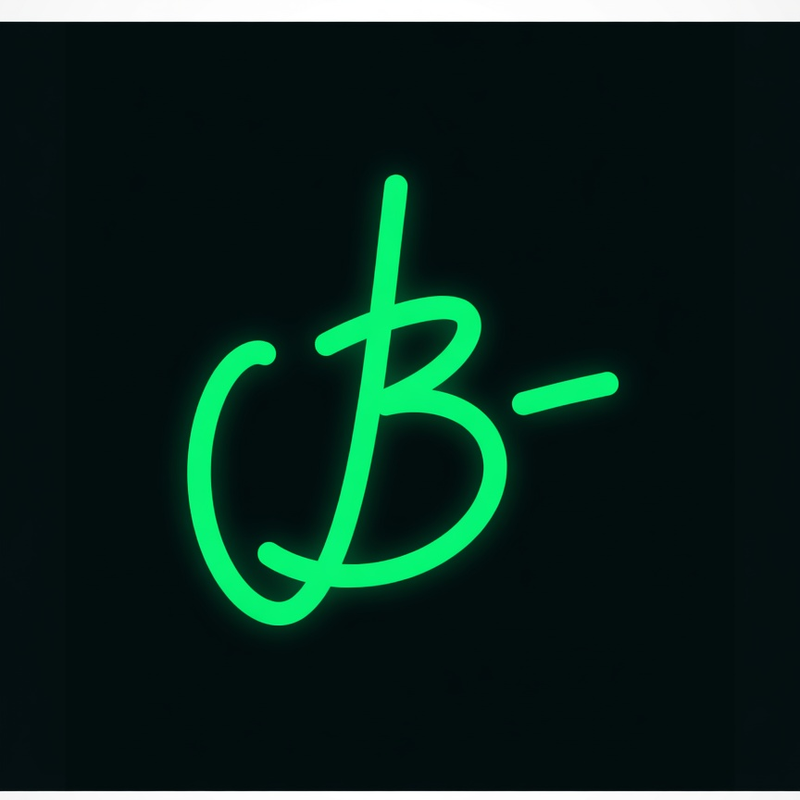
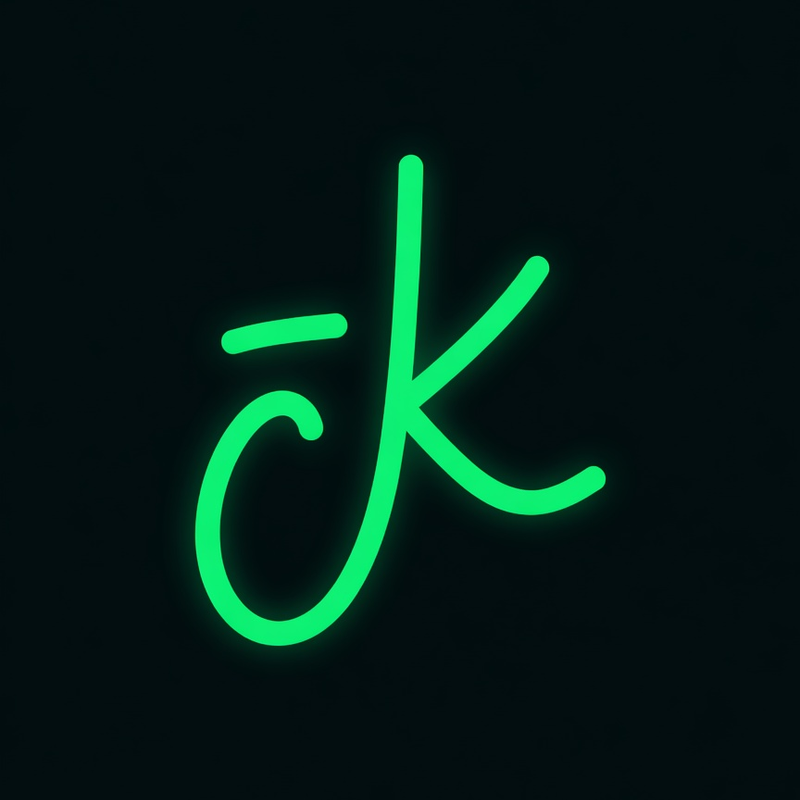
CK monogram sig, Andrea under 2×2, neon section margins
Replace signature with merged CK monogram. Work grid: 4 primary
tiles + Andrea below. Selected work & track record get side
margins and a phosphor neon ambient wash.

Changed region(s): [[0.2188, 0.1875, 0.7812, 0.8125], [0.0, 0.9688, 1.0, 1.0], [0.0, 0.0, 1.0, 0.0312]]

diff --git a/src/components/mc/WorkBento.tsx b/src/components/mc/WorkBento.tsx
@@ -15,7 +15,7 @@ export type WorkBentoItem = {
 const STOCKY_VERIFIED =
   "https://web.sensibull.com/verified-pnl/imported-hare/longterm-pnl";
 
-/** Four equal tiles: Drishti · Timelock · Stocky · Delta Support Audit. */
+/** Primary 2×2: Drishti · Timelock · Stocky · Delta Support Audit. Andrea sits below. */
 export function defaultWorkBentoItems(): WorkBentoItem[] {
   const bySlug = Object.fromEntries(CASE_STUDIES.map((c) => [c.slug, c]));
   const cover = (slug: string, fallback: string, alt: string) => {
@@ -61,6 +61,19 @@ export function defaultWorkBentoItems(): WorkBentoItem[] {
   ];
 }
 
+export function andreaWorkItem(): WorkBentoItem {
+  const bySlug = Object.fromEntries(CASE_STUDIES.map((c) => [c.slug, c]));
+  const shot = bySlug["andrea-world"]?.shots?.[0];
+  return {
+    title: "Andrea's World",
+    line: bySlug["andrea-world"]?.tagline ?? "Hand-built interactive 3D web world.",
+    cover: shot?.src ?? "/images/work/andrea-world/cover.png",
+    coverAlt: shot?.alt ?? "Andrea's World interactive island",
+    live: "https://andrea-world.vercel.app",
+    detail: "/work/andrea-world",
+  };
+}
+
 function Chip({ href, children, internal }: { href: string; children: React.ReactNode; internal?: boolean }) {
   const cls =
     "relative z-10 font-mono text-[12px] text-[rgb(var(--mute))] transition-colors hover:text-accent";
@@ -75,10 +88,20 @@ function Chip({ href, children, internal }: { href: string; children: React.Reac
   );
 }
 
-function Card({ item, priority }: { item: WorkBentoItem; priority?: boolean }) {
+function Card({
+  item,
+  priority,
+  className = "",
+}: {
+  item: WorkBentoItem;
+  priority?: boolean;
+  className?: string;
+}) {
   const detailHref = item.detail ?? "#";
   return (
-    <article className="group relative flex h-full flex-col overflow-hidden rounded-2xl border border-[rgb(var(--rule))] bg-[rgb(var(--panel)/0.55)] transition-[border-color,box-shadow] hover:border-[rgb(var(--accent)/0.45)] hover:shadow-[0_0_28px_-8px_rgb(var(--accent)/0.35)]">
+    <article
+      className={`group relative flex h-full flex-col overflow-hidden rounded-2xl border border-[rgb(var(--rule))] bg-[rgb(var(--panel)/0.55)] transition-[border-color,box-shadow] hover:border-[rgb(var(--accent)/0.45)] hover:shadow-[0_0_28px_-8px_rgb(var(--accent)/0.35)] ${className}`}
+    >
       <Link href={detailHref} className="absolute inset-0 z-0" aria-label={`${item.title} details`} />
       <div className="relative aspect-[16/10] overflow-hidden border-b border-[rgb(var(--rule))]">
         <Image
@@ -117,13 +140,17 @@ function Card({ item, priority }: { item: WorkBentoItem; priority?: boolean }) {
 
 export function WorkBento({
   items = defaultWorkBentoItems(),
+  below,
   footerHref = "/work",
   footerLabel = "All work & tools →",
 }: {
   items?: WorkBentoItem[];
+  /** Optional row under the 2×2 (e.g. Andrea). */
+  below?: WorkBentoItem[];
   footerHref?: string;
   footerLabel?: string;
 }) {
+  const under = below ?? [andreaWorkItem()];
   return (
     <div>
       <div className="grid gap-4 sm:grid-cols-2 lg:gap-5">
@@ -131,6 +158,13 @@ export function WorkBento({
           <Card key={item.title} item={item} priority={i === 0} />
         ))}
       </div>
+      {under.length > 0 && (
+        <div className={`mt-4 grid gap-4 lg:gap-5 ${under.length === 1 ? "sm:grid-cols-1" : "sm:grid-cols-2"}`}>
+          {under.map((item) => (
+            <Card key={item.title} item={item} className={under.length === 1 ? "sm:max-w-xl" : ""} />
+          ))}
+        </div>
+      )}
       {footerHref && (
         <Link href={footerHref} className="mt-6 inline-block font-mono text-[13px] text-accent hover:underline">
           {footerLabel}

diff --git a/src/index.css b/src/index.css
@@ -1180,6 +1180,62 @@
   to { transform: translateY(105vh); }
 }
 
+/* ── Section neon wash — full-bleed glow, content keeps side margins ── */
+.mc-section-neon {
+  position: relative;
+  isolation: isolate;
+  overflow: hidden;
+}
+.mc-section-neon::before {
+  content: "";
+  position: absolute;
+  inset: 0;
+  z-index: 0;
+  pointer-events: none;
+  background:
+    radial-gradient(ellipse 70% 55% at 12% 20%, rgb(var(--accent) / 0.14), transparent 58%),
+    radial-gradient(ellipse 55% 50% at 88% 75%, rgb(var(--accent) / 0.10), transparent 55%),
+    radial-gradient(ellipse 90% 40% at 50% 100%, rgb(var(--accent) / 0.06), transparent 60%),
+    linear-gradient(180deg, rgb(var(--panel) / 0.35), rgb(var(--bg) / 0.2) 40%, rgb(var(--panel) / 0.4));
+}
+.mc-section-neon::after {
+  content: "";
+  position: absolute;
+  inset: 0;
+  z-index: 0;
+  pointer-events: none;
+  opacity: 0.35;
+  background-image:
+    linear-gradient(rgb(var(--accent) / 0.04) 1px, transparent 1px),
+    linear-gradient(90deg, rgb(var(--accent) / 0.04) 1px, transparent 1px);
+  background-size: 48px 48px;
+  mask-image: radial-gradient(ellipse 80% 70% at 50% 50%, #000 20%, transparent 75%);
+  -webkit-mask-image: radial-gradient(ellipse 80% 70% at 50% 50%, #000 20%, transparent 75%);
+}
+.mc-section-neon > * {
+  position: relative;
+  z-index: 1;
+}
+/* Content column: intentional side margin vs full shell */
+.mc-section-inner {
+  margin-inline: auto;
+  width: 100%;
+  max-width: min(var(--mc-shell), 100% - 2.5rem);
+  padding-inline: 1.25rem;
+}
+@media (min-width: 768px) {
+  .mc-section-inner {
+    max-width: min(var(--mc-shell), 100% - 5rem);
+    padding-inline: 1.75rem;
+  }
+}
+@media (min-width: 1280px) {
+  .mc-section-inner {
+    max-width: min(80rem, 100% - 8rem); /* ~1280, roomier side gutters on ultrawide */
+    padding-inline: 2rem;
+  }
+}
+
 /* ── Console frame: fixed inset border + corner brackets, under the header ── */
 .mc-frame {
   position: fixed;

diff --git a/src/components/mc/Sections.tsx b/src/components/mc/Sections.tsx
@@ -72,12 +72,14 @@ export function McHeader() {
 
 export function McWork() {
   return (
-    <section id="work" className={`${shell} py-20 md:py-28`}>
-      <FadeIn>
-        <Eyebrow n="01" label="Selected work" />
-      </FadeIn>
-      <div className="mt-8">
-        <WorkBento />
+    <section id="work" className="mc-section-neon border-y border-[rgb(var(--rule))] py-20 md:py-28">
+      <div className="mc-section-inner">
+        <FadeIn>
+          <Eyebrow n="01" label="Selected work" />
+        </FadeIn>
+        <div className="mt-8">
+          <WorkBento />
+        </div>
       </div>
     </section>
   );
@@ -159,8 +161,8 @@ export async function McTrackRecord() {
       : "—";
 
   return (
-    <section className="border-y border-[rgb(var(--rule))] bg-[rgb(var(--panel)/0.55)]">
-      <div className={`${shell} py-20 md:py-28`}>
+    <section className="mc-section-neon border-y border-[rgb(var(--rule))]">
+      <div className="mc-section-inner py-20 md:py-28">
         <FadeIn>
           <Eyebrow n="02" label="Track record" />
         </FadeIn>
@@ -321,14 +323,14 @@ export function McContact() {
         <div className="mt-12 flex flex-col items-start gap-3 sm:flex-row sm:items-end sm:justify-between">
           <Image
             src="/images/signature-neon-trans.png"
-            alt={`${SITE.name} signature`}
-            width={160}
-            height={160}
-            className="h-20 w-auto opacity-90 drop-shadow-[0_0_18px_rgb(var(--accent)/0.45)] sm:h-24"
+            alt={`${SITE.name} CK monogram signature`}
+            width={200}
+            height={200}
+            className="h-24 w-auto opacity-95 drop-shadow-[0_0_22px_rgb(var(--accent)/0.5)] sm:h-28"
             priority={false}
           />
           <p className="font-mono text-[11px] uppercase tracking-[0.14em] text-[rgb(var(--faint))]">
-            signed · ck
+            signed · ck monogram
           </p>
         </div>
       </div>

diff --git a/src/components/mc/Sections.test.tsx b/src/components/mc/Sections.test.tsx
@@ -6,15 +6,15 @@ import { SITE } from "@/data/site";
 describe("Mission-Control landing (teaser) sections", () => {
   it("lists the work pillars as bento cards with links (incl. Andrea's World)", () => {
     render(<McWork />);
-    for (const title of ["Drishti", "Timelock", "Stocky AI", "Delta Support Audit"]) {
+    for (const title of ["Drishti", "Timelock", "Stocky AI", "Delta Support Audit", "Andrea's World"]) {
       expect(screen.getByRole("heading", { name: new RegExp(title, "i") })).toBeTruthy();
     }
     expect(screen.queryByRole("heading", { name: /Delta MCP/i })).toBeNull();
-    expect(screen.queryByRole("heading", { name: /Andrea/i })).toBeNull();
     expect(screen.getByRole("link", { name: /all work/i }).getAttribute("href")).toBe("/work");
     const links = screen.getAllByRole("link");
     expect(links.some((a) => a.getAttribute("href")?.startsWith("http"))).toBe(true);
     expect(links.some((a) => a.getAttribute("href") === "/work/delta-support-audit")).toBe(true);
+    expect(links.some((a) => a.getAttribute("href") === "/work/andrea-world")).toBe(true);
   });
 
   it("frames the two accounts (AI vs algo) honestly + links to the real pages", async () => {
